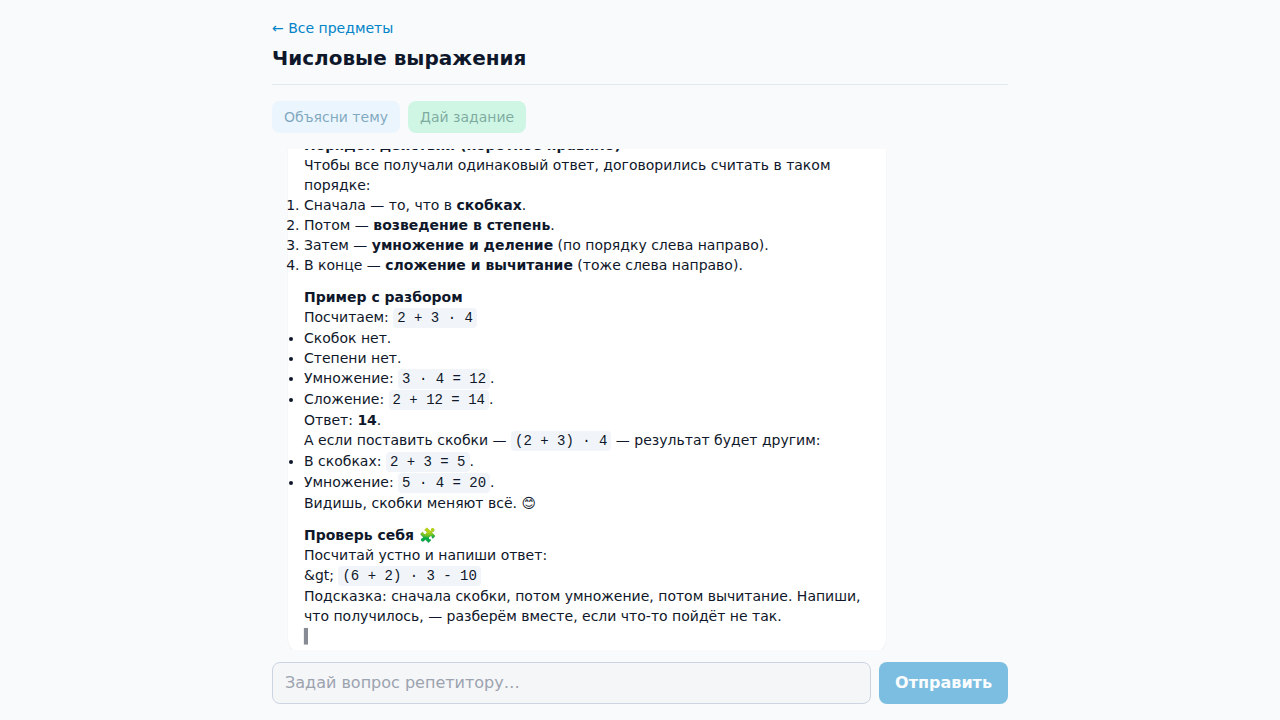
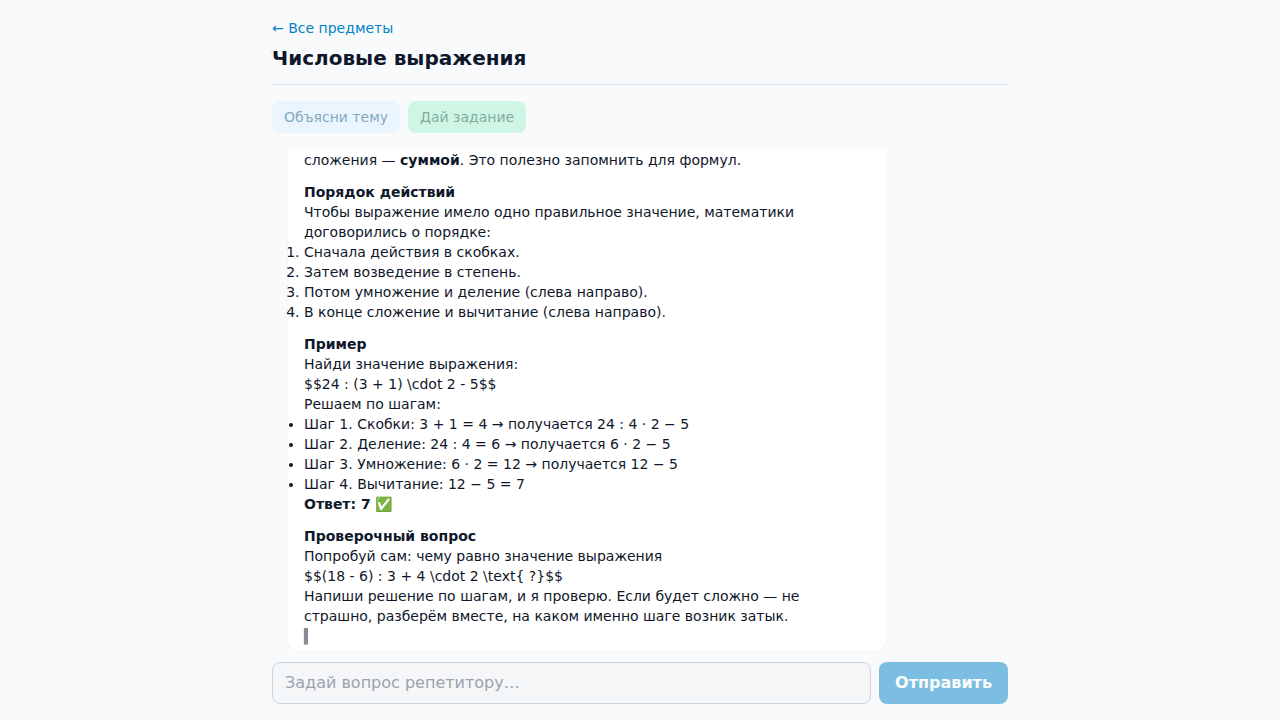
docs: Sprint 3.0 — walkthrough + баги admin fmtDetails + диск 100% retention
CHANGELOG.md: запись Sprint 3.0 с находками walkthrough и фиксами.
Все правки уже в коммитах df5e3a1, 8dca7b3, 27324a6, 40cb8b2.

Changed region(s): [[0.2188, 0.2139, 0.6875, 0.8861]]

diff --git a/CHANGELOG.md b/CHANGELOG.md
@@ -154,6 +154,30 @@
 - audit_log за 7 дней: 3 исторических `error.5xx` от 2026-07-13 07:26 UTC, новых с момента
   Sprint 2.2 deploy (27 часов) нет.
 
+### Sprint 3.0 — walkthrough + найдены и исправлены баги (2026-07-14)
+
+**Сделано:**
+- `e2e/walkthrough.spec.ts` — новый e2e spec с подробным логированием и скриншотами
+  для 4 ролей (student/parent/teacher/admin). Скриншоты в
+  `apps/frontend/screenshots/walkthrough/` (18 PNG, ~2 МБ).
+- Прогон walkthrough нашёл реальные проблемы:
+  1. **`/admin` ломался с React error #31** на admin странице. JSONB из БД
+     приходит как object (asyncpg + FastAPI), `fmtDetails` ждал string. Фикс:
+     handle both string and object. `/admin` теперь грузится, табы видны,
+     audit-фильтр работает (44 строки для `error.5xx`).
+  2. **Диск заполнен на 100%** на проде — 11 snapshots × 900 МБ = 9.8 ГБ,
+     deploy не мог создать snapshot (`zstd: error 70: No space left on device`).
+     Фикс в `deploy/release/deploy.sh`: retention=1, удаление ВСЕХ старых
+     snapshots перед созданием нового, `docker image prune` после.
+  3. **Logout button не найден** на `/teacher` — нет явной кнопки выхода.
+     Это by design (logout через боковое меню), но UX-проблема.
+
+**Verify:**
+- Walkthrough: 3 passed (Student/Teacher/Admin), 1 skipped (Parent — нет привязанных детей).
+- Admin flow: 5.6 сек (раньше 30+ сек из-за React error).
+- Audit filter `error.5xx`: 44 строки (вместо «This page couldn't load»).
+- Smoke 7/7 OK. Rate-limit восстановлен к 10.
+
 ### Финальный итог Pilot Core Stage 2 (всё за сессию)
 
 - **12 коммитов** с pre-edit backup на SMB